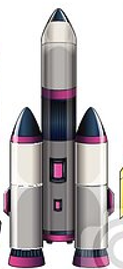
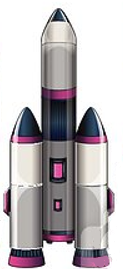
displaying picture groups

diff --git a/choosing picture group/page3.Html b/choosing picture group/page3.Html
@@ -21,11 +21,11 @@
                 <table>
                     <tr>
                         <td><div class="image-div"><img src="../images/space_theme/rocket_ships/1.png" class="image"></div></td>
-                        <td></td>
+                        <td><div class="image-div"><img src="../images/space_theme/rocket_ships/2.png" class="image"></div></td>
                     </tr>
                     <tr>
-                        <td></td>
-                        <td></td>
+                        <td><div class="image-div"><img src="../images/space_theme/rocket_ships/3.png" class="image"></div></td>
+                        <td><div class="image-div"><img src="../images/space_theme/rocket_ships/4.png" class="image"></div></td>
                     </tr>
                 </table>
                 </div>
@@ -34,7 +34,16 @@
 
             <div class="column">
                 <div class="aliens pic-group">
-                    
+                    <table>
+                        <tr>
+                            <td><div class="image-div"><img src="../images/space_theme/aliens/1.png" class="image"></div></td>
+                            <td><div class="image-div"><img src="../images/space_theme/aliens/2.png" class="image"></div></td>
+                        </tr>
+                        <tr>
+                            <td><div class="image-div"><img src="../images/space_theme/aliens/3.png" class="image"></div></td>
+                            <td><div class="image-div"><img src="../images/space_theme/aliens/4.png" class="image"></div></td>
+                        </tr>
+                    </table>
                 </div>
                 <input class="theme-btn" type="button" value="Aliens" id="aliens">
             </div>
@@ -43,13 +52,31 @@
         <div class="ocean theme">
             <div class="column">
                 <div class="fish pic-group">
-
+                    <table>
+                        <tr>
+                            <td><div class="image-div"><img src="../images/ocean_theme/fish/1.png" class="image"></div></td>
+                            <td><div class="image-div"><img src="../images/ocean_theme/fish/2.png" class="image"></div></td>
+                        </tr>
+                        <tr>
+                            <td><div class="image-div"><img src="../images/ocean_theme/fish/3.png" class="image"></div></td>
+                            <td><div class="image-div"><img src="../images/ocean_theme/fish/4.png" class="image"></div></td>
+                        </tr>
+                    </table>
                 </div>
                 <input class="theme-btn" type="button" value="Fish" id="Fish">
             </div>
             <div class="column">
                 <div class="boats pic-group">
-
+                    <table>
+                        <tr>
+                            <td><div class="image-div"><img src="../images/ocean_theme/boats/1.png" class="image"></div></td>
+                            <td><div class="image-div"><img src="../images/ocean_theme/boats/2.png" class="image"></div></td>
+                        </tr>
+                        <tr>
+                            <td><div class="image-div"><img src="../images/ocean_theme/boats/3.png" class="image"></div></td>
+                            <td><div class="image-div"><img src="../images/ocean_theme/boats/4.png" class="image"></div></td>
+                        </tr>
+                    </table>
                 </div>
                 <input class="theme-btn" type="button" value="Boats" id="boats">
             </div>

diff --git a/choosing picture group/page3.css b/choosing picture group/page3.css
@@ -52,14 +52,6 @@ body {
     width: 100%;
     height: 55%;
     margin-top: 20%;
-    background: yellowgreen;
-    /* display: grid;
-    grid-template-columns: 1fr 1fr;
-    grid-template-rows: 1fr 1fr;
-    grid-gap: 10px 10px;
-    grid-template-areas: 
-    "pic1 pic2"
-    "pic3 pic4"; */
 }
 
 .theme-btn{
@@ -114,14 +106,6 @@ body {
     text-shadow: 1px 0 rgb(7, 7, 85);
 }
 
-/* .pic1{
-    grid-area: pic1;
-}
-
-.image{
-    height:135px;
-    width: 100%;
-} */
 
 .btn-container{
     display: flex;
@@ -154,17 +138,9 @@ body {
     background: rgb(0, 60, 255)
 }
 
-
-
-
-
-
-
-
 table{
     height: 100%;
     width: 100%;
-    border: red 5px solid;
     align-items: center;
     z-index: 5;
 }
@@ -175,7 +151,7 @@ tr{
 }
 
 td{
-    border: red 5px solid;
+    border: #0e87f8 5px solid;
     align-items: center;
     height: 50%;
     width: 50%;
@@ -183,28 +159,13 @@ td{
 
 
 .image-div{
-    height: 50%;
-    width: 50%;
-    background: orange;
-
+    height: 100%;
+    width: 100%;
 }
 
 .image{
-    height: 50%;
-    width: 50%;
-    background: orange;
+    height: 123px;
+    width: 100%;
+    object-fit:fill;
     display: block;
 }
-
-
-
-
-/* td{
-    background: url("../images/space theme/rocket ships/1.PNG");
-    background-size: cover;   
-} */
-
-/* td img{
-    width: 25%;
-    height: 25%;
-} */ 
